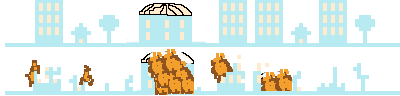
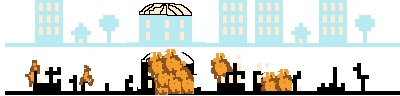
Change of background

Changed region(s): [[0.42, 0.6562, 1.0, 1.0], [0.0, 0.6562, 0.39, 1.0], [0.45, 0.6562, 0.51, 0.7812]]

diff --git a/js/play.js b/js/play.js
@@ -152,7 +152,10 @@ Game.Play.prototype = {
 	},
 
 	animation_ended: function() {
-		this.city.frame = 1
+		game.stage.backgroundColor = "#FF0000";
+		this.city.frame = 1;
+		this.city.frame.backgroundColor = "#000000"
+
 
 		var dead = game.add.text(w/2, 100, "the city is gone. you saved " + this.score + " lives", { font: "18px Courier", fill: "#fff" });
 		dead.anchor.setTo(0.5, 0);
